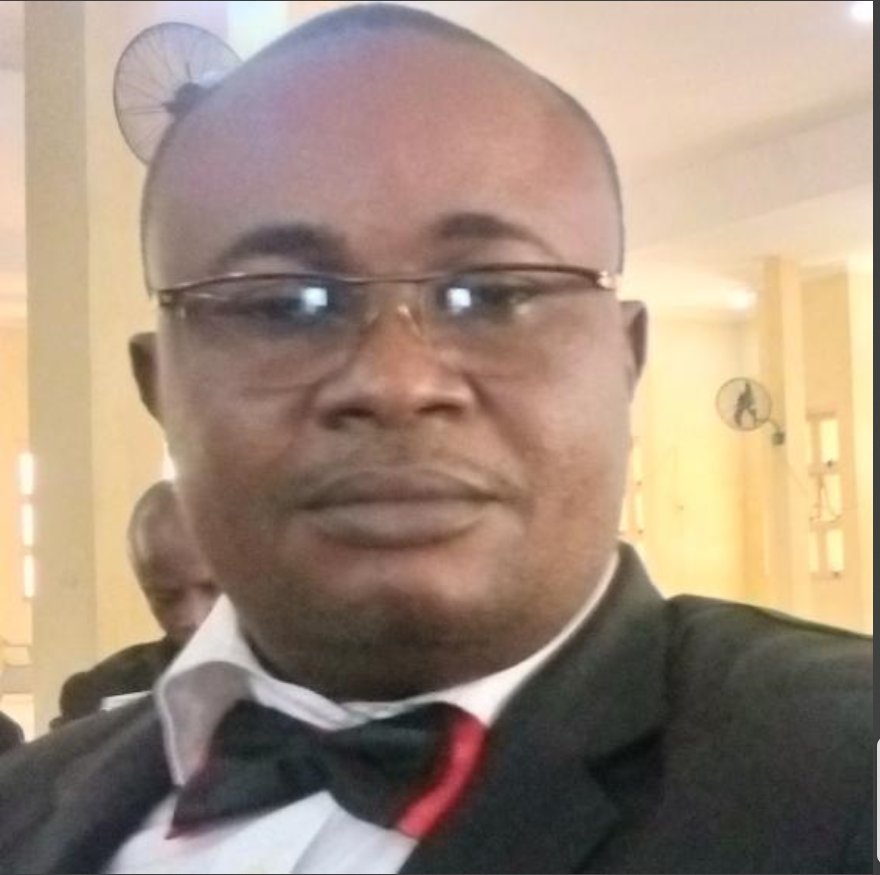
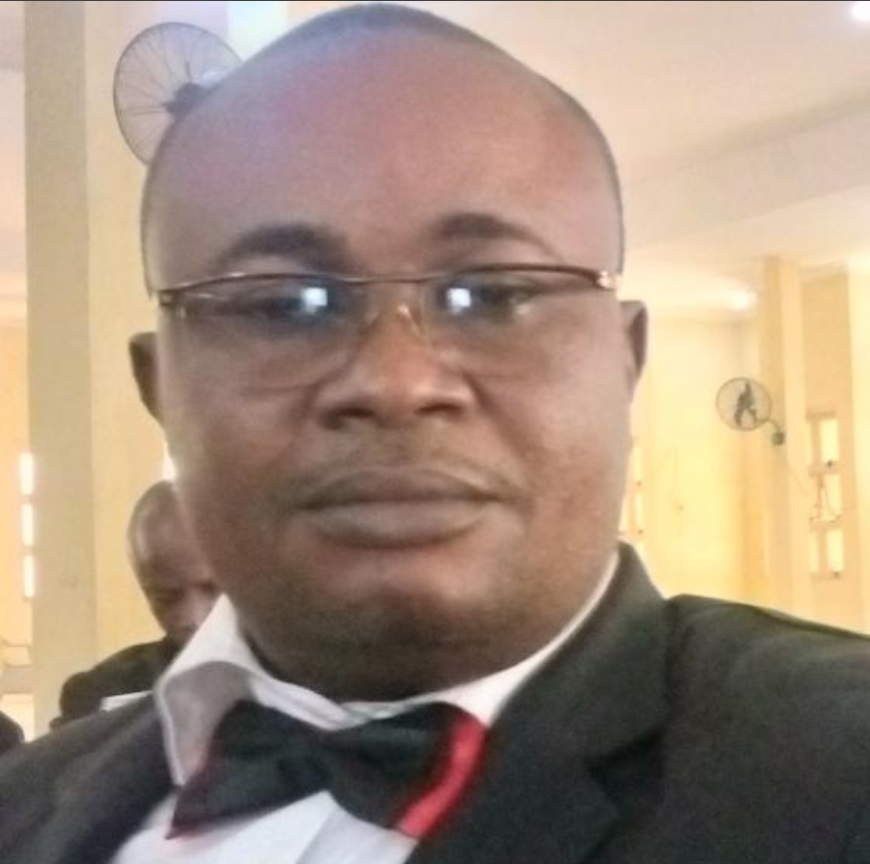
added ict director's image

diff --git a/index.html b/index.html
@@ -590,7 +590,7 @@
                     <div class="testimonial__content swiper-slide">
                         <div class="testimonial__data">
                             <div class="testimonial__header">
-                                <img src="./packages/images/Director.PNG" alt="" class="testimonial__img">
+                                <img src="./packages/images/director.PNG" alt="" class="testimonial__img">
                                 
                                 <div>
                                     <h3 class="testimonial__name">Engr Dr, Nosiri Onyebuchi</h3>
@@ -616,7 +616,7 @@
                     <div class="testimonial__content swiper-slide">
                         <div class="testimonial__data">
                             <div class="testimonial__header">
-                                <img src="./packages/images/shenan.PNG" alt="" class="testimonial__img">
+                                <img src="./packages/images/director.PNG" alt="" class="testimonial__img">
                                 
                                 <div>
                                     <h3 class="testimonial__name">Prof. Iheayi Ogoke</h3>
